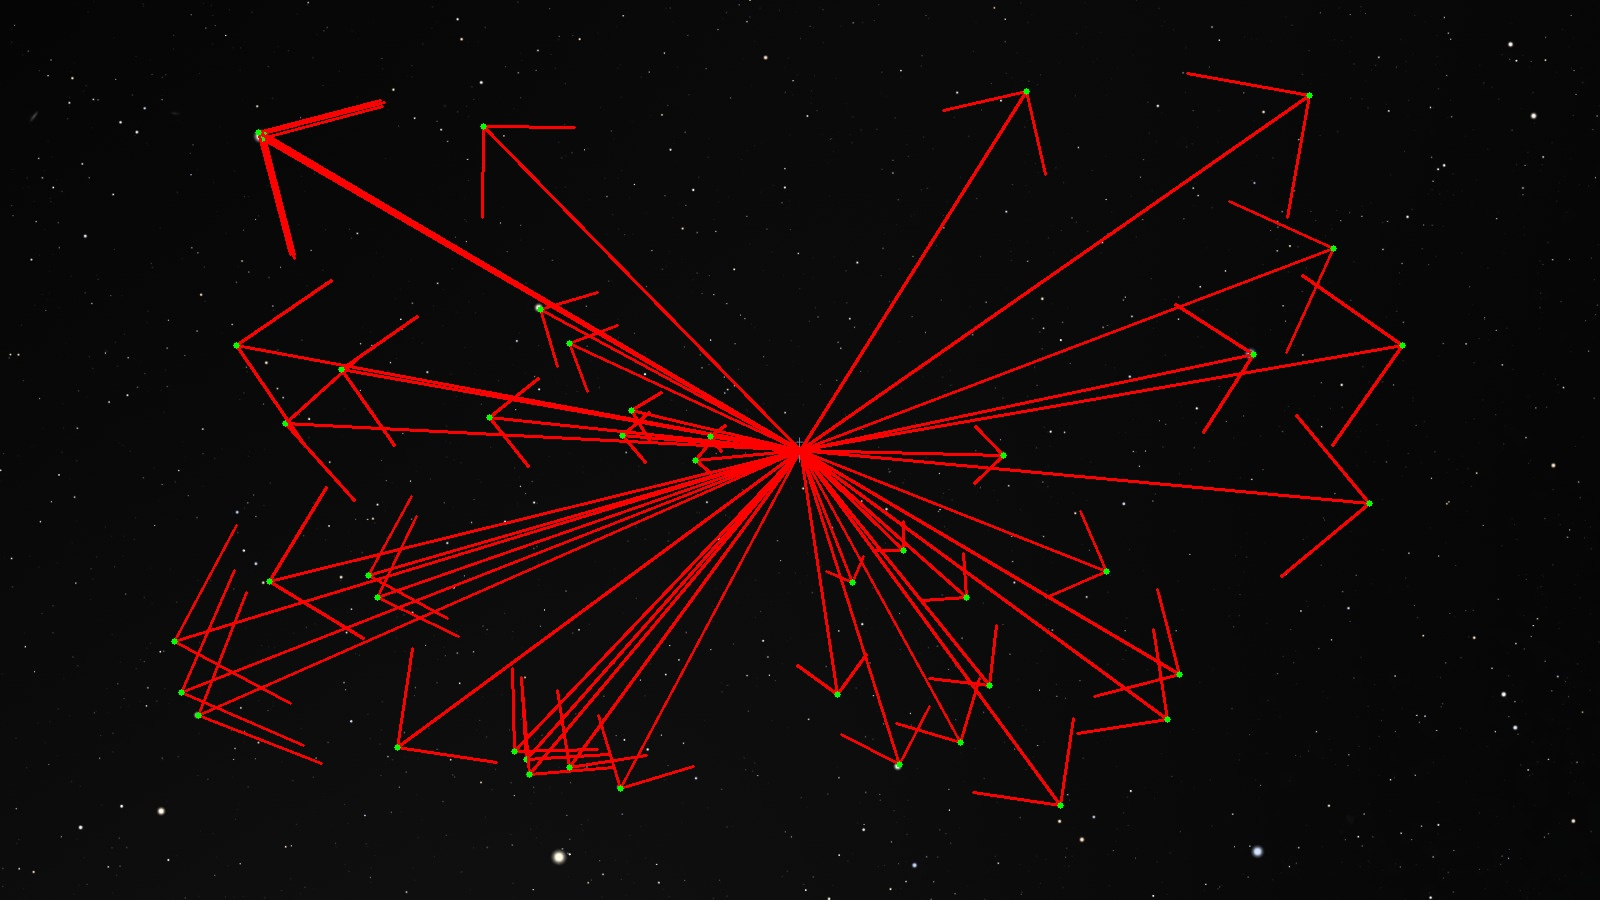
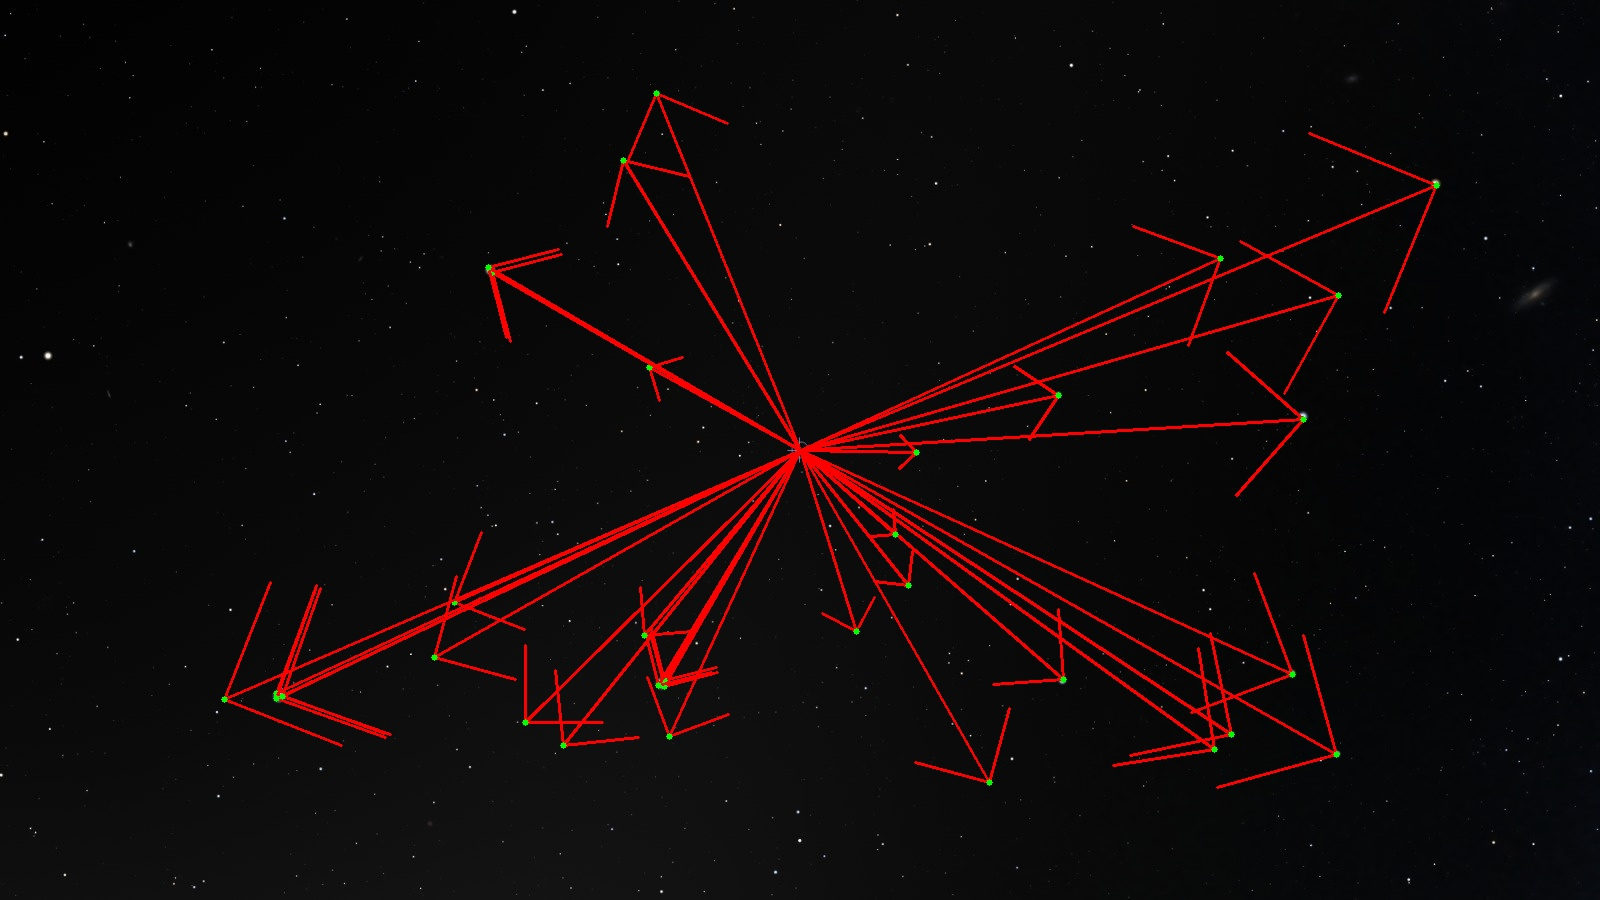
third image added

diff --git a/src/TRACKING/tracking_stars_equatorial_coord_.py b/src/TRACKING/tracking_stars_equatorial_coord_.py
@@ -181,10 +181,12 @@ def draw_center_to_star_vectors(img, points, cx, cy, color=(0, 255, 0)):
 if __name__ == "__main__":
     img1= cv.imread(r"src\test\test_images\Tracking_test\0RA_0DEC_FOV(52.3).png")
     img2= cv.imread(r"src\test\test_images\Tracking_test\0RA_0.1DEC_FOV(52.3).png")
+    img3=cv.imread(r'src\test\test_images\Tracking_test\0RA_0.3DEC_FOV(52.3).png')
 
     cx,cy,fx,fy=get_intrinsics(img1)
     img_processed1=processing_image(img1)
     img_processed2=processing_image(img2)
+    img_processed3=processing_image(img3)
     h, w =  img1.shape[:2]
     margin_x = int(w * 0.1)
     margin_y = int(h * 0.1)
@@ -246,26 +248,51 @@ if __name__ == "__main__":
     cv.destroyAllWindows()
 
     cv.imwrite("output_tracking.jpg", img_tracked)
-    img_center_vecs = draw_center_to_star_vectors(img2, good_new, cx, cy)
-    cv.imshow("Center-to-Star Vectors (img2)", img_center_vecs)
+    img_center_vecs2 = draw_center_to_star_vectors(img2, good_new, cx, cy)
+    cv.imshow("Center-to-Star Vectors (img2)", img_center_vecs2)
+    cv.waitKey(0)
+    cv.destroyAllWindows()
+    
+    p2, st2, err2 = cv.calcOpticalFlowPyrLK(img_processed2,img_processed3, p1, None, **lk_params)
+    if p2 is None:
+        print("Optical flow tracking failed to find points in second image.")
+    else:
+        tracked_points = np.sum(st)
+        print(f"Number of points successfully tracked: {tracked_points} / {len(p0)}")
+    
+    p2 = p2[st == 1]
+    
+    #Apply LK algorithm to p2 =>get the coordinates of the stars in the first image (p1r) and compare them with p1=> use only the point for which p0r-p0< certain error 
+    p1r, st_back, err_back = cv.calcOpticalFlowPyrLK(img_processed3,img_processed2, p2, None, **lk_params)
+    flow_error_thresh = 0.005 * max(w, h)
+    p1r = p1r.reshape(-1, 2)
+    st_back = st_back.reshape(-1)
+
+    diff = np.linalg.norm(p1 - p1r, axis=1)
+    good_indices = diff < flow_error_thresh
+    good_old1 = p1.reshape(-1, 2)[good_indices]
+    good_new = p1.reshape(-1, 2)[st.flatten() == 1]
+
+    
+    img_tracked = img3.copy() #copy of the second image to draw the motion vectors
+    for old, new in zip(p1,p2):
+        a, b = new.ravel()  #to access x and y as individual variables
+        c, d = old.ravel()
+        cv.line(img_tracked, (int(c), int(d)), (int(a), int(b)), (0, 255, 0), 2)
+        cv.circle(img_tracked, (int(a), int(b)), 3, (0, 0, 255), -1)
+
+   #Display the results
+    cv.imshow("Tracked Features (Lucas-Kanade)", img_tracked)
     cv.waitKey(0)
     cv.destroyAllWindows()
 
-
-    displacement = good_new - good_old     # shape (N,2), each row is (dx, dy)
-    deg_pixel = fov_deg / h
-    real_displacement = displacement * deg_pixel
-
-    # Compute total displacement (magnitude) for each vector
-    magnitudes = np.linalg.norm(real_displacement, axis=1)
-
-    # Print displacement for every vector
-    for i, m in enumerate(magnitudes):
-        print(f"Vector {i}: displacement = {m}")
+    cv.imwrite("output_tracking.jpg", img_tracked)
     
-    # Compute and print mean displacement
-    mean_disp = np.mean(magnitudes)
-    print(f"\nMean displacement = {mean_disp}")
+    img_center_vecs3 = draw_center_to_star_vectors(img3, p2, cx, cy,color=150)
+    cv.imshow("Center-to-Star Vectors (img3)", img_center_vecs3)
+    cv.waitKey(0)
+    cv.destroyAllWindows()
+
     
      #conversion in degree
 # HIP: 113136, star 0 RA (on date): 22h 55m 57.99s,Dec (on date): −15° 41′ 23.0″
@@ -359,9 +386,33 @@ if __name__ == "__main__":
 
     final_coords = np.array([vector_to_radec(vec) for vec in v_eq_p1])
     print("final_coords:",final_coords)
+    #Get the coordinates of the stars in the second image in the camera RF
+    v_cam_p2 = pixel_to_cam_ray(p2.reshape(-1, 2), cx, cy, fx, fy, flip_y=False)
+    print("v_cam_p2 shape:", v_cam_p2.shape)
+    
+    #Get the rotational magtrix between the camera RF in the third photo and the camera RF in the second one
+    rot_cam1_to_cam2=estimate_rotation(v_cam_p1,v_cam_p2)
+    print("Rotation matrix between cam1 and cam2:\n", rot_cam1_to_cam2.as_matrix())
+    
+    #Get the rotational magtrix between the camera RF in the third photo  and the Celestial RF
+    rot_cam2_to_eq=rot_cam1_to_cam2 * rot_cam_to_eq
+    print("Rotation matrix between cam 2 and celestial RF:\n", rot_cam2_to_eq.as_matrix())
+    
+    v_eq_p2=rot_cam2_to_eq.apply(v_cam_p2)
+    print('v_eq_p2:',v_eq_p2)
+    
+    final_coords2 = np.array([vector_to_radec(vec) for vec in v_eq_p2])
+    print('Final coord2:',final_coords2)
 
 
+    import matplotlib.pyplot as plt
 
+    plt.scatter(final_coords[:,0], final_coords[:,1], label="Cam1->Eq", marker="o")
+    plt.scatter(final_coords2[:,0], final_coords2[:,1], label="Cam2->Eq", marker="x")
+    plt.xlabel("RA (deg)")
+    plt.ylabel("Dec (deg)")
+    plt.legend()
+    plt.show()
 
 
 

diff --git a/src/TRACKING/tracking_center_of_image.py b/src/TRACKING/tracking_center_of_image.py
@@ -160,10 +160,12 @@ def draw_center_to_star_vectors(img, points, cx, cy, color=(0, 255, 0)):
 if __name__ == "__main__":
     img1= cv.imread(r"src\test\test_images\Tracking_test\0RA_0DEC_FOV(52.3).png")   #initial orientation
     img2= cv.imread(r"src\test\test_images\Tracking_test\0RA_0.1DEC_FOV(52.3).png") #final orientation
-
+    img3=cv.imread("")
+    
     cx,cy,fx,fy=get_intrinsics(img1)   
     img_processed1=processing_image(img1)
     img_processed2=processing_image(img2)
+    img_processed3=
     h, w =  img1.shape[:2]
     margin_x = int(w * 0.1)
     margin_y = int(h * 0.1)
@@ -323,4 +325,6 @@ if __name__ == "__main__":
     
     print("final_coords:",final_coords)
     print("final eq coordinates of the center: ", final_coords)
+    
+  
 

diff --git a/src/TRACKING/Tracking_displacement.py b/src/TRACKING/Tracking_displacement.py
@@ -190,9 +190,6 @@ if __name__ == "__main__":
     
 
 
-    
-
-
 
 
 
